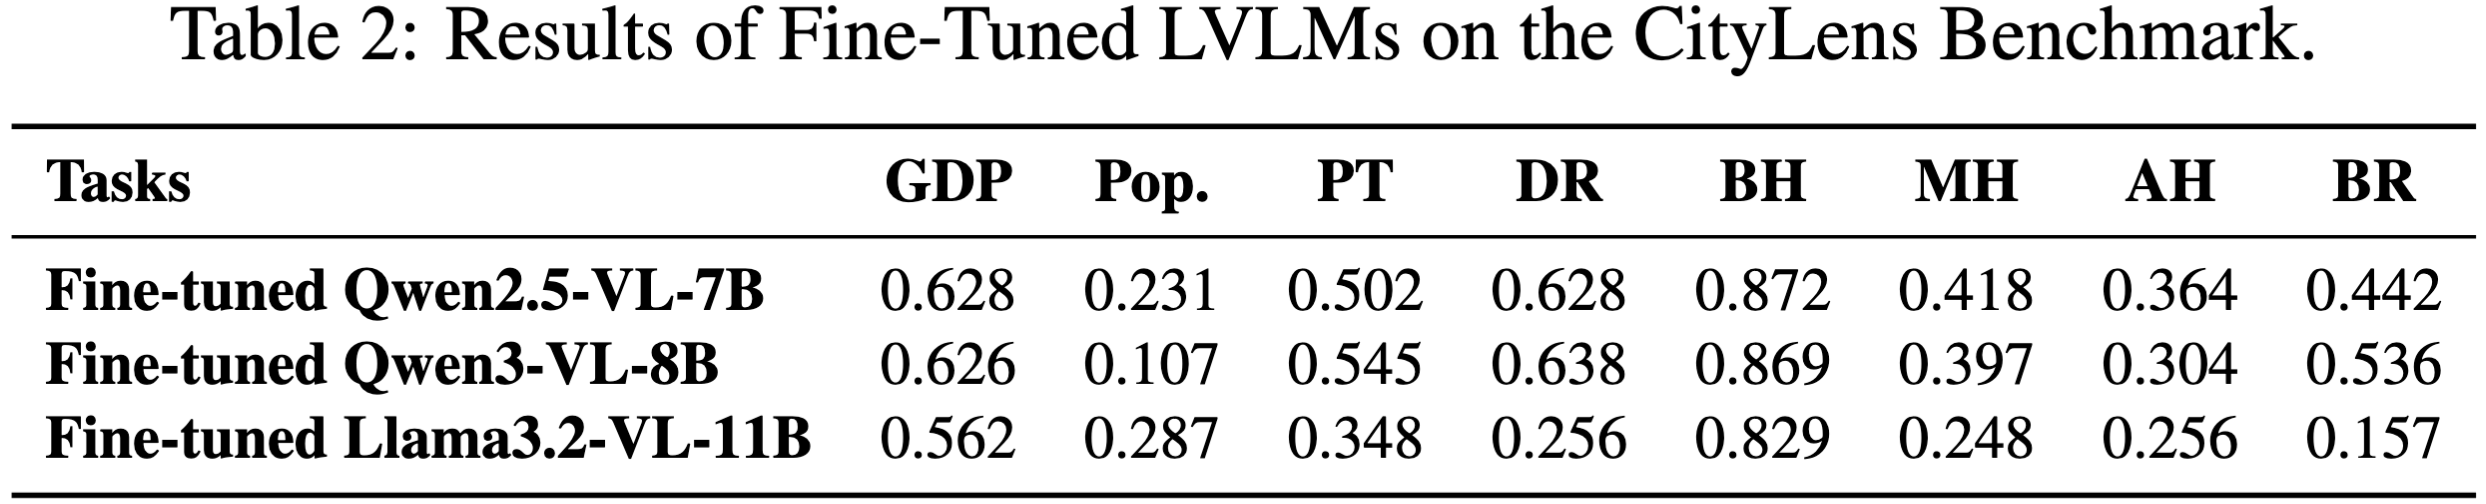
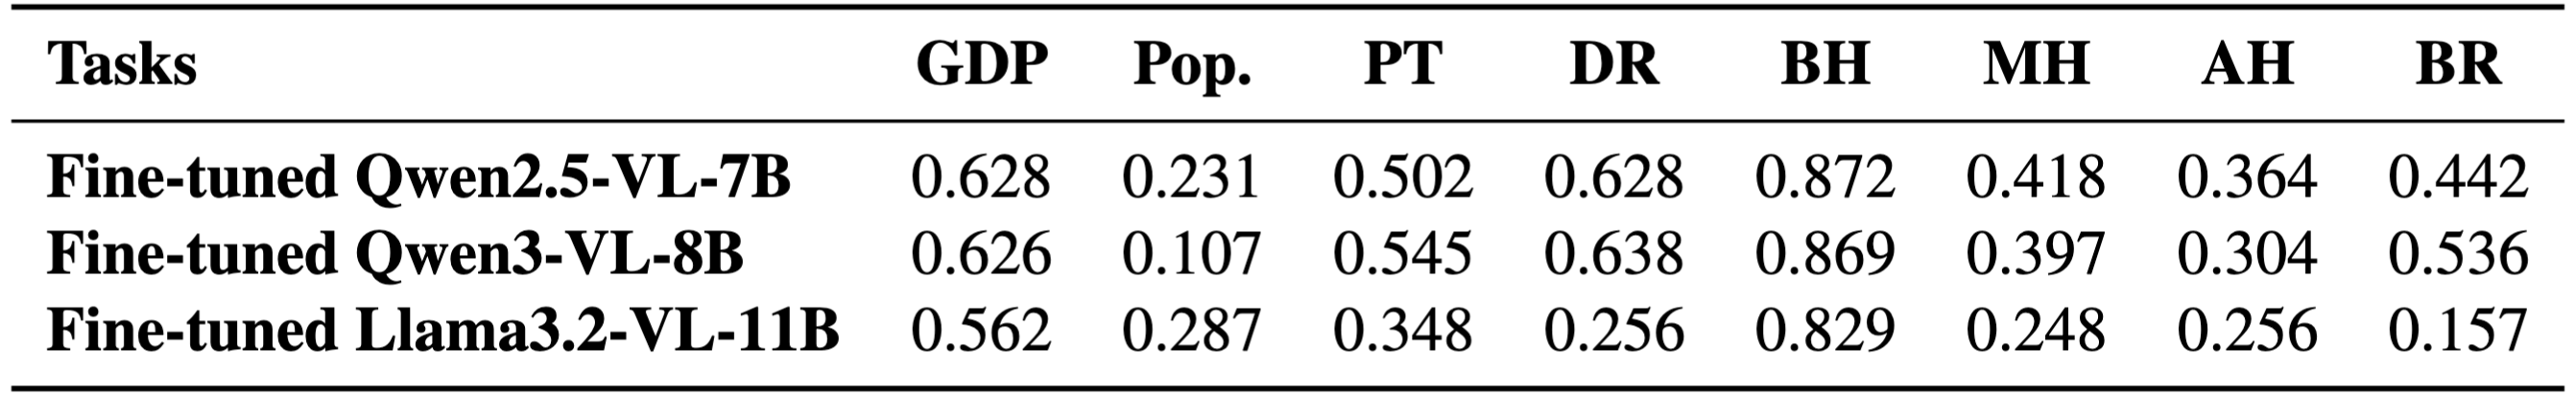
Update CityLens results gallery

diff --git a/projects/citylens/assets/styles.css b/projects/citylens/assets/styles.css
@@ -148,7 +148,7 @@ a {
 .metric-tile span {
   margin: 0;
   color: var(--gold);
-  font-size: 0.78rem;
+  font-size: 0.86rem;
   font-weight: 850;
   letter-spacing: 0.12em;
   text-transform: uppercase;
@@ -165,6 +165,24 @@ a {
 
 .hero-title-line {
   display: block;
+}
+
+.venue {
+  display: inline-flex;
+  align-items: center;
+  justify-content: center;
+  margin: 18px 0 0;
+  border: 1px solid rgba(255, 255, 255, 0.32);
+  border-radius: var(--radius);
+  padding: 8px 14px;
+  color: var(--white);
+  background: rgba(7, 21, 20, 0.62);
+  box-shadow: 0 12px 32px rgba(7, 21, 20, 0.22);
+  font-size: 0.98rem;
+  font-weight: 850;
+  letter-spacing: 0.08em;
+  text-transform: uppercase;
+  backdrop-filter: blur(10px);
 }
 
 .subtitle {
@@ -297,11 +315,6 @@ a {
   font-size: 1.05rem;
 }
 
-.intro-layout > .section-label,
-.benchmark-heading > .section-label {
-  font-size: 0.78rem;
-}
-
 .intro-layout p.abstract-copy {
   max-width: 1060px;
   margin: 16px 0 0;
@@ -333,6 +346,13 @@ a {
   max-width: 1060px;
   font-size: 1.16rem;
   line-height: 1.62;
+}
+
+.intro-layout > .section-label,
+.section-heading > .section-label {
+  color: var(--gold);
+  font-size: 1.16rem;
+  line-height: 1.2;
 }
 
 .methods-section .section-heading,
@@ -402,35 +422,43 @@ a {
 .indicator-panel {
   display: grid;
   grid-template-columns: minmax(220px, 0.7fr) minmax(280px, 1.3fr);
-  gap: clamp(22px, 4vw, 48px);
+  gap: clamp(18px, 3vw, 34px);
   margin-top: 30px;
   border: 1px solid var(--line);
   border-radius: var(--radius);
-  padding: clamp(22px, 4vw, 34px);
+  padding: clamp(16px, 2.5vw, 22px);
   background: linear-gradient(135deg, #ffffff 0%, #f4f0e8 100%);
 }
 
 .indicator-panel h3 {
-  margin: 8px 0 0;
+  margin: 6px 0 0;
   font-size: 1.18rem;
-  line-height: 1.25;
+  line-height: 1.18;
 }
 
 .indicator-list {
   display: flex;
   flex-wrap: wrap;
-  gap: 10px;
+  gap: 8px;
   align-content: start;
 }
 
 .indicator-list span {
   border: 1px solid #d1d9d4;
   border-radius: var(--radius);
-  padding: 8px 10px;
+  padding: 6px 9px;
   color: var(--teal-dark);
   background: var(--white);
   font-size: 0.9rem;
   font-weight: 800;
+}
+
+.indicator-list .indicator-row-break {
+  flex-basis: 100%;
+  width: 0;
+  height: 0;
+  border: 0;
+  padding: 0;
 }
 
 .methods-section {
@@ -506,24 +534,35 @@ a {
 .gallery-stage {
   position: relative;
   display: grid;
-  min-height: 520px;
+  height: clamp(520px, 82vh, 860px);
   place-items: center;
+  overflow: hidden;
   background: #f8faf8;
 }
 
 .gallery-image-link {
   display: grid;
   width: 100%;
-  min-height: 520px;
+  height: 100%;
   place-items: center;
-  padding: clamp(14px, 3vw, 30px);
+  padding: clamp(22px, 4vw, 44px) clamp(58px, 6vw, 78px);
 }
 
 .gallery-image-link img {
   width: auto;
   max-width: 100%;
-  max-height: 72vh;
+  max-height: 100%;
   object-fit: contain;
+}
+
+.figure-gallery[data-gallery-fit="smaller"] .gallery-image-link img {
+  max-width: 80%;
+  max-height: 80%;
+}
+
+.figure-gallery[data-gallery-fit="smallest"] .gallery-image-link img {
+  max-width: 75%;
+  max-height: 75%;
 }
 
 .gallery-arrow {
@@ -561,10 +600,32 @@ a {
 .gallery-meta {
   display: flex;
   align-items: center;
-  justify-content: flex-end;
+  justify-content: space-between;
   gap: 18px;
   border-top: 1px solid var(--line);
   padding: 16px;
+}
+
+.gallery-caption {
+  flex: 1 1 auto;
+  max-width: 1020px;
+}
+
+.gallery-caption p {
+  margin: 0;
+}
+
+.gallery-caption-title {
+  color: var(--ink);
+  font-size: 0.96rem;
+  font-weight: 850;
+}
+
+.gallery-caption [data-gallery-caption] {
+  margin-top: 5px;
+  color: var(--muted);
+  font-size: 0.94rem;
+  line-height: 1.5;
 }
 
 .gallery-thumbs {
@@ -692,14 +753,21 @@ a {
     align-items: stretch;
   }
 
-  .gallery-stage,
+  .gallery-stage {
+    height: clamp(300px, 62vh, 440px);
+  }
+
   .gallery-image-link {
-    min-height: 340px;
+    padding: 18px 46px;
   }
 
   .gallery-meta {
     align-items: stretch;
     flex-direction: column;
+  }
+
+  .indicator-list .indicator-row-break {
+    display: none;
   }
 
   .gallery-arrow {

diff --git a/projects/citylens/assets/figures.js b/projects/citylens/assets/figures.js
@@ -3,50 +3,72 @@ export const figures = [
     title: "Figure 3",
     src: "./assets/images/bar_image/figure3.png",
     alt: "CityLens Figure 3",
+    caption:
+      "Selected socioeconomic indicators and dataset statistics. The figure summarizes the 11 prediction tasks in CityLens and reports image counts, geographic scale, and evaluation regions for each task.",
   },
   {
     title: "Figure 4",
     src: "./assets/images/bar_image/figure4.png",
     alt: "CityLens Figure 4",
+    caption:
+      "Prompt examples for the three evaluation methodologies: Direct Metric Prediction, Normalized Metric Estimation, and Feature-Based Regression.",
   },
   {
-    title: "Figure 4.5",
+    title: "Table 1",
     src: "./assets/images/bar_image/figure4.5.png",
-    alt: "CityLens Figure 4.5",
+    alt: "CityLens Table 1",
+    caption:
+      "Main results for the Feature-Based Regression method. Values are R² scores across 11 tasks; Mean and SD summarize overall performance, with bold and underline marking the best and second-best results in each row.",
   },
   {
     title: "Figure 5",
     src: "./assets/images/bar_image/figure5.png",
     alt: "CityLens Figure 5",
+    fit: "smallest",
+    caption:
+      "Task-wise R² comparison between Direct Metric Prediction and Normalized Metric Estimation across the 11 CityLens socioeconomic indicators.",
   },
   {
-    title: "Figure 6-1",
+    title: "Figure 6(a)",
     src: "./assets/images/bar_image/figure6-1.png",
-    alt: "CityLens Figure 6-1",
+    alt: "CityLens Figure 6(a)",
+    caption:
+      "City-level GDP prediction results across 13 cities under Feature-Based Regression, showing substantial geographic variation in predictive performance.",
   },
   {
-    title: "Figure 6-2",
+    title: "Figure 6(b-c)",
     src: "./assets/images/bar_image/figure6-2.png",
-    alt: "CityLens Figure 6-2",
+    alt: "CityLens Figure 6(b-c)",
+    caption:
+      "Input composition analysis. Street view imagery performs comparably to street view plus satellite imagery, while increasing the number of street view images progressively improves prediction performance.",
   },
   {
-    title: "Figure 7-1",
+    title: "Figure 7(a-b)",
     src: "./assets/images/bar_image/figure7-1.png",
-    alt: "CityLens Figure 7-1",
+    alt: "CityLens Figure 7(a-b)",
+    caption:
+      "Reasoning experiments comparing standard and CoT prompting, plus performance of reasoning models on difficult normalized-estimation tasks.",
   },
   {
-    title: "Figure 7-2",
+    title: "Figure 7(c)",
     src: "./assets/images/bar_image/figure7-2.png",
-    alt: "CityLens Figure 7-2",
+    alt: "CityLens Figure 7(c)",
+    fit: "smaller",
+    caption:
+      "Vision encoder comparison under Feature-Based Regression. CLIP-based visual features are the most informative among the evaluated encoders for urban socioeconomic sensing.",
   },
   {
     title: "Figure 8",
     src: "./assets/images/bar_image/figure8.png",
     alt: "CityLens Figure 8",
+    caption:
+      "Representative error cases from Feature-Based Regression and CoT prompting, illustrating failures in fine-grained visual grounding and holistic environmental reasoning.",
   },
   {
-    title: "Figure 8.5",
+    title: "Table 2",
     src: "./assets/images/bar_image/figure8.5.png",
-    alt: "CityLens Figure 8.5",
+    alt: "CityLens Table 2",
+    caption:
+      "Fine-tuned LVLM results on the CityLens benchmark. Domain-adapted models achieve consistently stronger R² scores across most evaluated tasks, highlighting the potential of specialized LVLMs for this setting.",
   },
 ];

diff --git a/projects/citylens/index.html b/projects/citylens/index.html
@@ -46,6 +46,7 @@
               <div class="affiliation-row"><sup>4</sup> Zhongguancun Academy</div>
             </div>
             <p class="corresponding-note">&#8224; Corresponding authors</p>
+            <span class="venue">ICLR 2026</span>
             <div class="hero-actions" aria-label="Primary resources">
               <a class="button button-secondary" href="./assets/citylens-paper.pdf">Paper PDF</a>
               <a class="button button-secondary" href="https://github.com/tsinghua-fib-lab/CityLens">Code</a>
@@ -126,7 +127,7 @@
         <div class="indicator-panel">
           <div>
             <p class="section-label">Indicators</p>
-            <h3>Eleven prediction tasks across six urban domains.</h3>
+            <h3>Eleven prediction tasks across six<br />urban domains.</h3>
           </div>
           <div class="indicator-list" aria-label="CityLens indicators">
             <span>GDP</span>
@@ -134,10 +135,12 @@
             <span>House Price</span>
             <span>Public Transport</span>
             <span>Drive Ratio</span>
+            <span class="indicator-row-break" aria-hidden="true"></span>
             <span>Mental Health</span>
             <span>Accessibility to Healthcare</span>
             <span>Life Expectancy</span>
             <span>Bachelor Ratio</span>
+            <span class="indicator-row-break" aria-hidden="true"></span>
             <span>Violent Crime</span>
             <span>Building Height</span>
           </div>
@@ -208,6 +211,10 @@
             <button class="gallery-arrow" type="button" data-gallery-next aria-label="Next figure">&#8250;</button>
           </div>
           <div class="gallery-meta">
+            <div class="gallery-caption" aria-live="polite">
+              <p class="gallery-caption-title" data-gallery-caption-title></p>
+              <p data-gallery-caption></p>
+            </div>
             <a class="button button-light" data-gallery-open href="#results" hidden>Open Figure</a>
           </div>
           <div class="gallery-thumbs" data-gallery-thumbs aria-label="Figure thumbnails"></div>

diff --git a/projects/citylens/assets/gallery.js b/projects/citylens/assets/gallery.js
@@ -6,6 +6,8 @@ if (gallery) {
   const image = gallery.querySelector("[data-gallery-image]");
   const imageLink = gallery.querySelector("[data-gallery-link]");
   const openLink = gallery.querySelector("[data-gallery-open]");
+  const captionTitle = gallery.querySelector("[data-gallery-caption-title]");
+  const caption = gallery.querySelector("[data-gallery-caption]");
   const thumbs = gallery.querySelector("[data-gallery-thumbs]");
   const empty = gallery.querySelector("[data-gallery-empty]");
   const prev = gallery.querySelector("[data-gallery-prev]");
@@ -18,6 +20,8 @@ if (gallery) {
       imageLink.hidden = true;
       openLink.hidden = true;
       image.hidden = true;
+      captionTitle.textContent = "";
+      caption.textContent = "";
       prev.disabled = true;
       next.disabled = true;
       return;
@@ -33,6 +37,9 @@ if (gallery) {
     image.alt = figure.alt || figure.title;
     imageLink.href = figure.src;
     openLink.href = figure.src;
+    gallery.dataset.galleryFit = figure.fit || "default";
+    captionTitle.textContent = figure.title;
+    caption.textContent = figure.caption || "";
 
     thumbs.querySelectorAll(".gallery-thumb").forEach((button, thumbIndex) => {
       button.setAttribute("aria-current", String(thumbIndex === current));